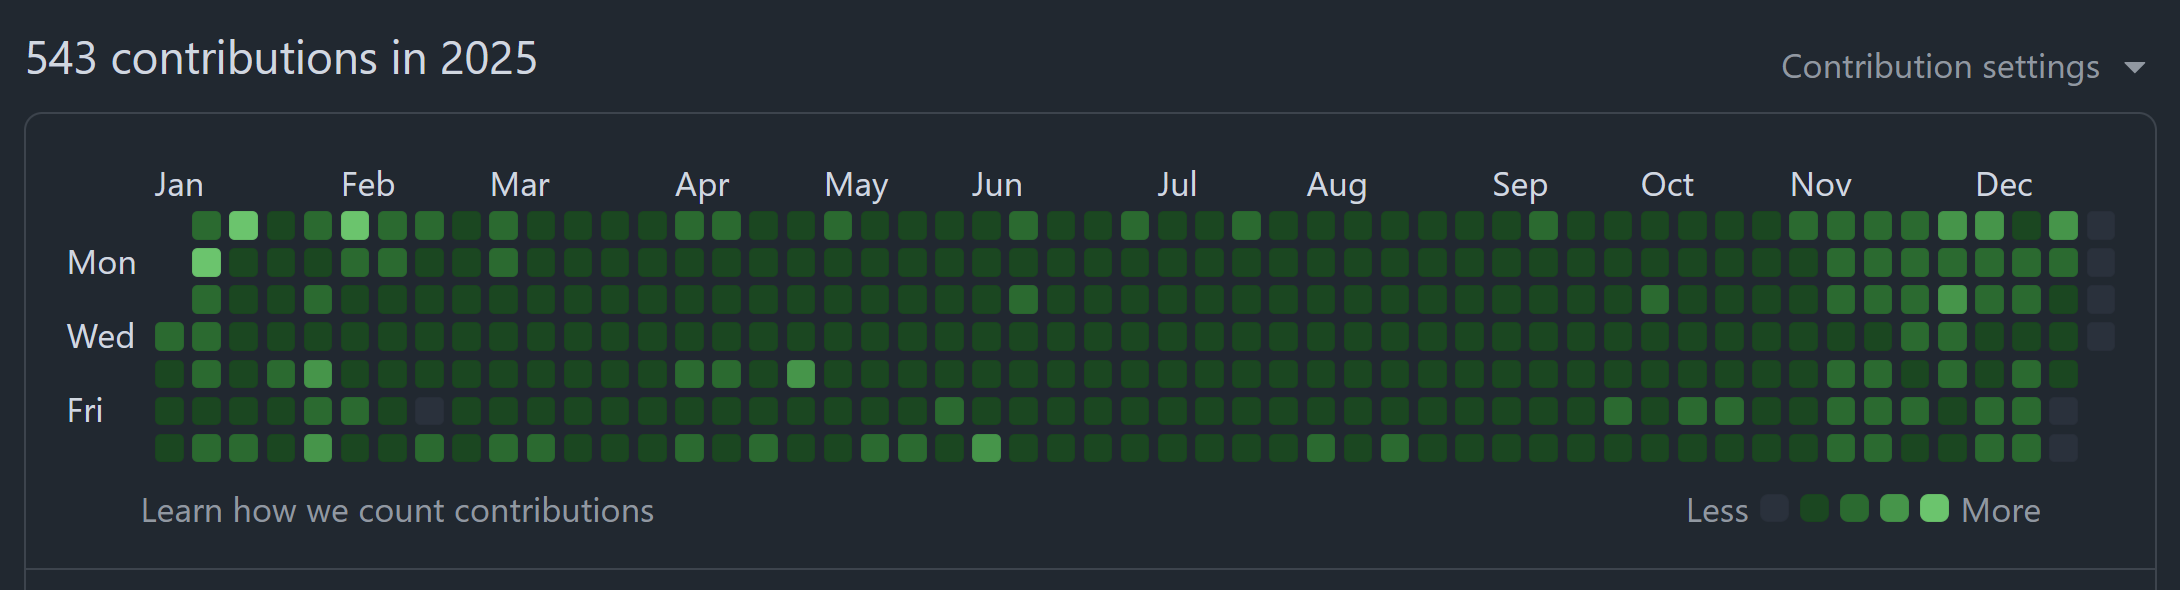
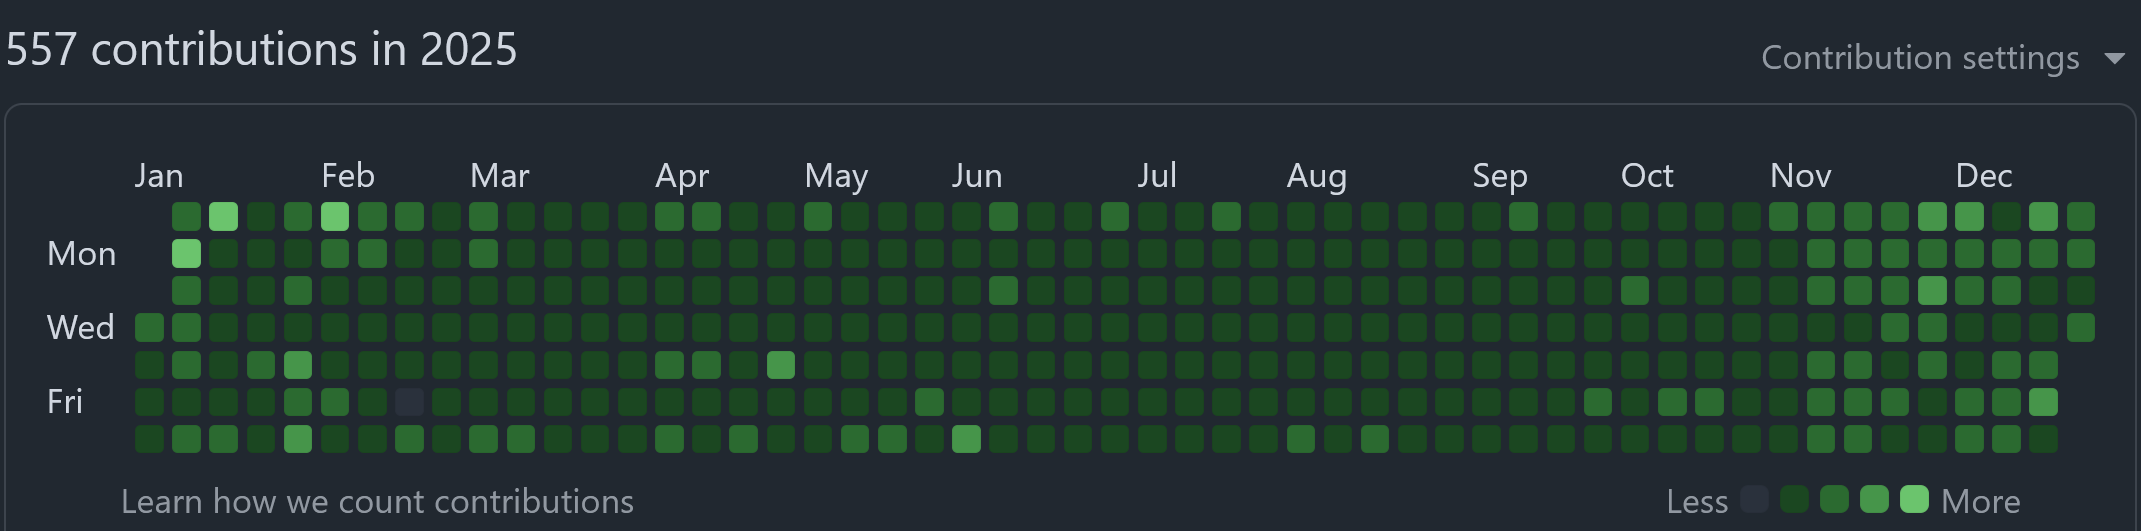
March update

diff --git a/src/lib/aboutSlides.ts b/src/lib/aboutSlides.ts
@@ -26,10 +26,10 @@ export const slides: Slide[] = [
       {
         text: "Timeline",
         children: [
-          "2006-2010: Bachelor's in Information Management",
-          "2010-2018: Engine/mechanical industry",
-          "2018-2024: Medical software (DICOM)",
           "2024-present: Web gaming frontend",
+          "2018-2024: Medical software (DICOM)",
+          "2010-2018: Engine/mechanical industry",
+          "2006-2010: Bachelor's in Information Management",
         ],
       },
       "Different domains, same core strengths: diagnostics, systems thinking, and performance fine tuning",
@@ -92,10 +92,12 @@ export const slides: Slide[] = [
     ],
   },
   {
-    title: "Current Role: Frontend Team Lead",
+    title: "Current Role: Frontend Engineering Manager",
     headline: "Web gaming",
     bullets: [
       "Lead frontend delivery while remaining hands-on with performance-critical UI",
+      "Led a 3-month migration of core game components from element-based UI to canvas-based components under an extremely tight timeline",
+      "Improved scalability for upcoming raster and vector-based animation features",
       "Coordinate tasks, priorities, and collaboration between frontend engineers and designers",
       "Set technical direction for rendering, performance, and maintainable React/Pixi.js architecture",
     ],

diff --git a/src/content/work/IKG.md b/src/content/work/IKG.md
@@ -1,6 +1,6 @@
 ---
 company: "IKG"
-role: "Associate Engineering Manager"
+role: "Frontend Engineering Manager"
 locationType: "Onsite"
 dateStart: "2024-12-16"
 dateEnd: "Now"
@@ -8,11 +8,11 @@ linkUrl: "https://ikigai.team"
 ---
 
 <br/>
-As an Associate Engineering Manager in the web gaming space, I lead delivery of high-performance React experiences while balancing hands-on engineering with team leadership. I partner closely with designers to ship pixel-perfect UI with smooth, game-like animations, and collaborate with product, QA, and engineering stakeholders to keep features scalable, reliable, and performant. I conduct clean architecture, strong code review practices, and rapid prototyping to validate new ideas.
+As a Frontend Engineering Manager in the web gaming space, I lead delivery of high-performance React experiences while staying hands-on with architecture and implementation. I work closely with designers to ship pixel-perfect UI and game-like motion systems, and partner with product, QA, and engineering teams to keep features scalable, reliable, and fast. I drive clean architecture, pragmatic code review standards, and rapid prototyping to turn ideas into production-ready outcomes.
 
 - Delivered pixel-perfect UI from Figma with game-like interactions using Pixi.js, Framer Motion, CSS, and SVG
+- Successfully led the team to migrate core game components from element-based UI to canvas-based rendering in just 3 months under an aggressive timeline, unlocking better scalability for upcoming raster and vector animation features
 - Built modular, scalable frontend architecture with Zustand for state management and Turborepo for efficient codebase organization
 - Led code reviews to improve product quality, maintainability, and architecture consistency
-- Monitored sprint execution (scope, risks, delivery) and partnered with product owners and QA to unblock work
 - Managed and mentored developers, supporting recruitment, onboarding, and performance evaluation
-- Drove cross-team collaboration to ensure delivery and quality on tight deadlines, doing what was needed to unblock work and make it happen
+- Monitored sprint execution to ensure delivery and quality on tight deadlines, doing what was needed to unblock work and make it happen
